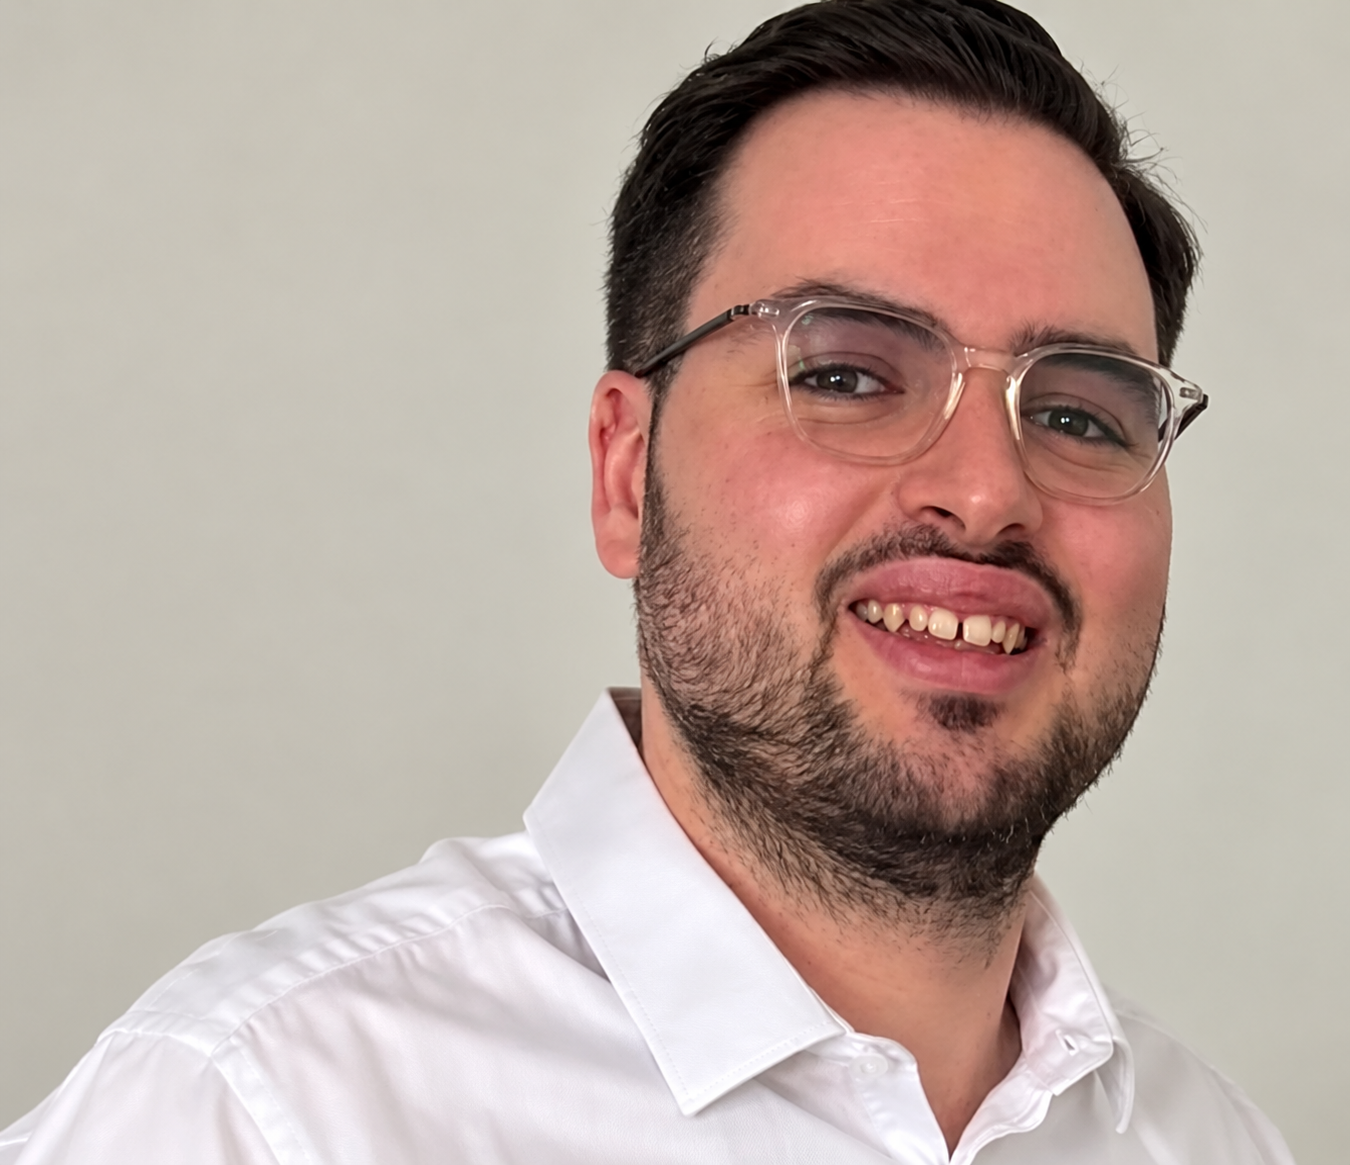
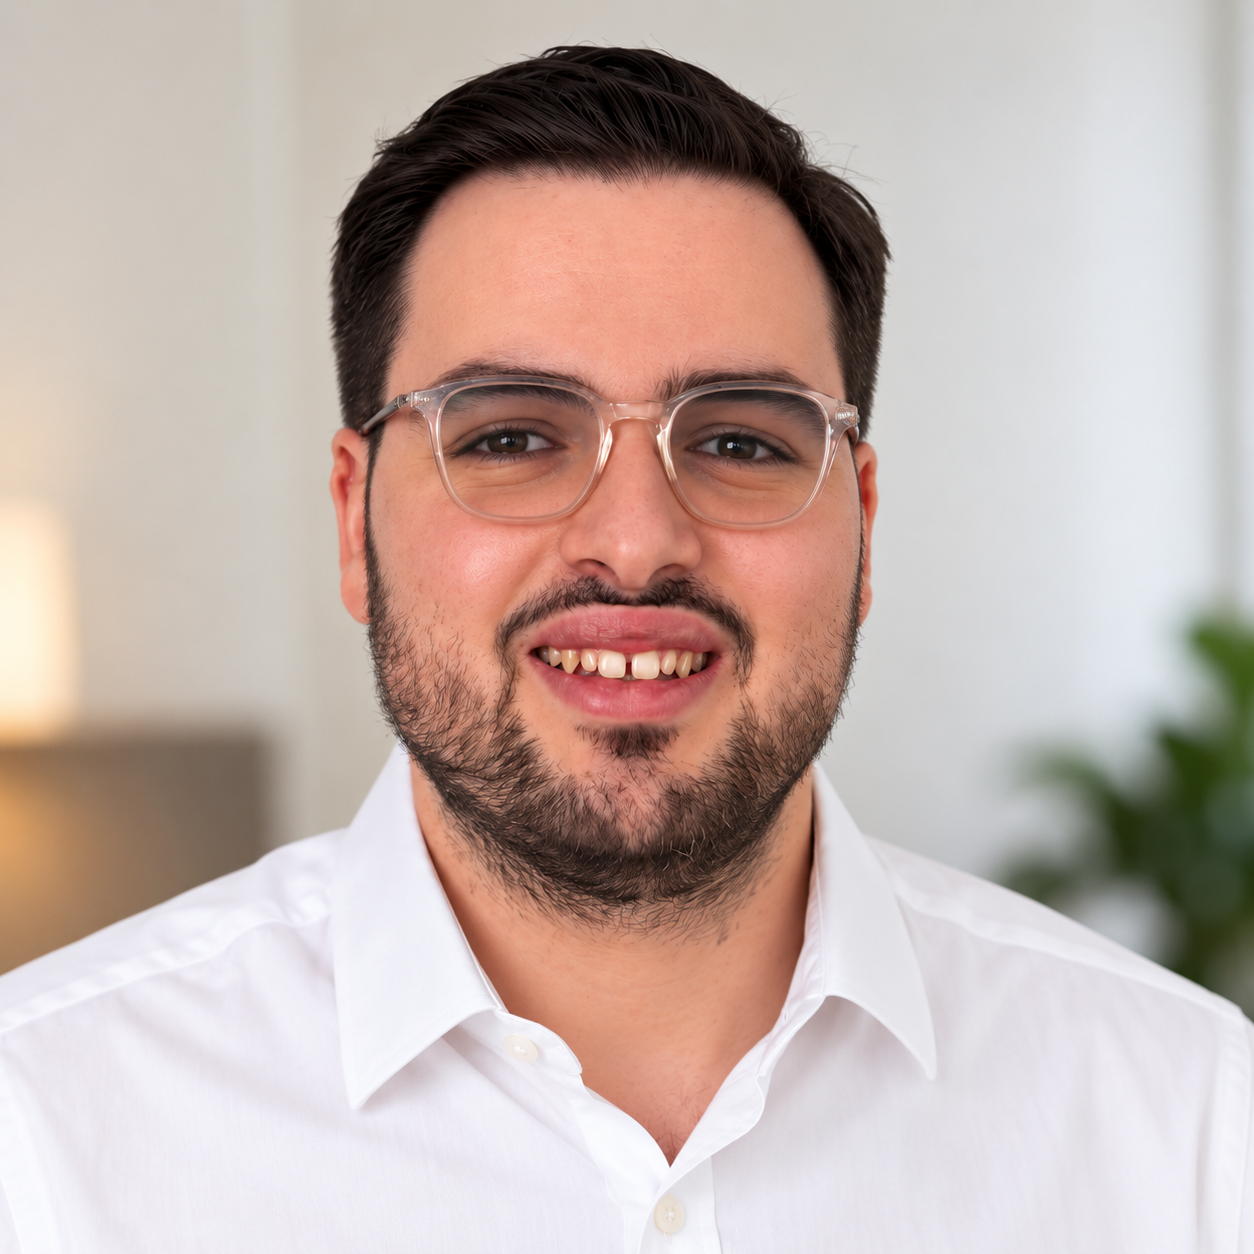
renfo SEO et ajout nouvelle photo et Calendy

diff --git a/index.html b/index.html
@@ -3,11 +3,62 @@
 <head>
   <meta charset="UTF-8">
   <meta content="width=device-width, initial-scale=1.0" name="viewport">
-  <title>Emmanuel Cohen-Sabban — Développeur Full Stack</title>
-  <meta content="Portfolio d'Emmanuel Cohen-Sabban, développeur Full Stack passionné par les architectures et les interfaces modernes, et l'automatisation CI/CD." name="description">
+  <title>Emmanuel Cohen-Sabban | Développeur Full Stack freelance</title>
+  <meta content="Emmanuel Cohen-Sabban, développeur Full Stack freelance : applications web, API et déploiement. Découvrez mes projets et réservez un échange de 30 minutes." name="description">
+  <meta name="robots" content="index, follow, max-image-preview:large">
+  <meta name="author" content="Emmanuel Cohen-Sabban">
+  <link rel="canonical" href="https://devecs.fr/">
+  <meta property="og:url" content="https://devecs.fr/">
+  <meta property="og:site_name" content="Emmanuel Cohen-Sabban">
+  <meta property="og:image" content="https://devecs.fr/assets/img/photo_cv.png">
+  <meta property="og:image:alt" content="Portrait d’Emmanuel Cohen-Sabban">
+  <meta property="og:type" content="website">
+  <meta property="og:locale" content="fr_FR">
+  <meta property="og:title" content="Emmanuel Cohen-Sabban — Développeur Full Stack freelance">
+  <meta property="og:description" content="Applications web, API et déploiement : découvrez mes projets et échangeons sur le vôtre.">
+  <meta name="twitter:card" content="summary">
   <link href="assets/img/logo_favicon.ico" rel="icon">
-  <link href="style.css?v=3" rel="stylesheet">
+  <link href="style.css?v=8" rel="stylesheet">
   <script defer src="script.js"></script>
+  <script type="application/ld+json">
+{
+  "@context": "https://schema.org",
+  "@type": "ProfilePage",
+  "@id": "https://devecs.fr/#profile",
+  "url": "https://devecs.fr/",
+  "name": "Emmanuel Cohen-Sabban — Développeur Full Stack freelance",
+  "inLanguage": "fr",
+  "mainEntity": {
+    "@type": "Person",
+    "@id": "https://devecs.fr/#emmanuel",
+    "name": "Emmanuel Cohen-Sabban",
+    "url": "https://devecs.fr/",
+    "image": "https://devecs.fr/assets/img/photo_cv.png",
+    "jobTitle": "Développeur Full Stack freelance",
+    "description": "Développeur Full Stack : conception d’applications web, développement front-end et back-end, API et déploiement.",
+    "knowsAbout": [
+      "Développement web",
+      "Angular",
+      "React",
+      "Next.js",
+      "Node.js",
+      "NestJS",
+      "Java",
+      "Spring Boot",
+      "PHP",
+      "Symfony",
+      "PostgreSQL",
+      "Docker",
+      "CI/CD"
+    ],
+    "sameAs": [
+      "https://www.linkedin.com/in/emmanuel-cohen-sabban-686a4417a",
+      "https://github.com/ManuHub26",
+      "https://www.malt.fr/profile/emmanuelcohensabban"
+    ]
+  }
+}
+  </script>
 </head>
 <body>
   <a class="skip-link" href="#main">Aller au contenu</a>
@@ -23,6 +74,7 @@
         <li><a class="nav-link"   href="#skills">Compétences</a></li>
         <li><a class="nav-link" href="#projects">Projets</a></li>
         <li><a class="nav-link"  href="#contact">Contact</a></li>
+        <li><a class="nav-link" href="https://calendly.com/emmanuel-cohen00/30min" target="_blank" rel="noopener noreferrer">Prise de RDV <span aria-hidden="true">↗</span></a></li>
       </ul>
       <button aria-controls="nav-links" aria-expanded="false" aria-label="Ouvrir le menu" class="hamburger" id="hamburger">
         <span></span><span></span><span></span>
@@ -35,7 +87,7 @@
     <div class="hero-content">
       <p class="eyebrow"><span class="status-dot"></span> Développeur Full Stack · Paris</p>
       <h1 id="hero-heading">Je donne vie<br>à vos projets<br><span class="accent">web.</span></h1>
-      <p class="hero-description">Moi, c’est Emmanuel, développeur Full Stack. Je conçois des applications simples à utiliser et fiables, de l’interface au serveur.</p>
+      <p class="hero-description">Moi, c’est Emmanuel Cohen-Sabban, développeur Full Stack freelance. Je conçois des applications simples à utiliser et fiables, de l’interface au serveur.</p>
       <div class="hero-ctas">
         <a class="btn btn-primary" href="#projects">Découvrir mes projets <span aria-hidden="true">↗</span></a>
         <a class="btn btn-outline" href="#contact">Discutons ensemble <span aria-hidden="true">→</span></a>
@@ -86,7 +138,7 @@
   <!-- ── Compétences ── -->
   <section class="section skills" id="skills">
     <div class="section-container">
-      <div class="section-heading reveal"><p class="eyebrow">02 / Compétences</p><h2 class="section-title">Une stack complète.<br>Des bases solides.</h2><p class="section-description">Les bons outils, à chaque étape du projet.</p></div>
+      <div class="section-heading reveal"><p class="eyebrow">02 / Compétences</p><h2 class="section-title">Une stack complète.<br>Des bases solides.</h2><p class="section-description">Développement front-end avec Angular, React et Next.js ; back-end avec Node.js, Java et PHP ; bases de données et déploiement.</p></div>
       <div class="skills-grid">
 
         <div class="skill-card reveal">
@@ -227,6 +279,16 @@
         Disponible pour toute opportunité, collaboration ou simple échange. Retrouvez-moi sur :
       </p>
       <div class="contact-grid">
+        <a class="contact-card contact-card-booking reveal" href="https://calendly.com/emmanuel-cohen00/30min" rel="noopener noreferrer" target="_blank">
+          <div class="contact-card-icon" aria-hidden="true">
+            <svg fill="none" height="32" stroke="currentColor" stroke-linecap="round" stroke-linejoin="round" stroke-width="1.5" viewBox="0 0 24 24" width="32"><rect x="3" y="5" width="18" height="16" rx="2"/><path d="M16 3v4M8 3v4M3 11h18M9 16l2 2 4-4"/></svg>
+          </div>
+          <div class="contact-card-body">
+            <span class="contact-card-label">Parlons de votre projet</span>
+            <span class="contact-card-value">Prendre rendez-vous · 30 minutes sur Calendly</span>
+          </div>
+          <svg aria-hidden="true" class="contact-card-arrow" fill="none" height="20" stroke="currentColor" stroke-width="2" viewBox="0 0 24 24" width="20"><path d="M7 17L17 7M17 7H7M17 7v10"/></svg>
+        </a>
 
         <a class="contact-card reveal" href="https://www.linkedin.com/in/emmanuel-cohen-sabban-686a4417a" rel="noopener noreferrer" target="_blank">
           <div class="contact-card-icon">
@@ -237,6 +299,17 @@
             <span class="contact-card-value">Échangeons sur LinkedIn</span>
           </div>
           <svg class="contact-card-arrow" fill="none" height="20" stroke="currentColor" stroke-width="2" viewBox="0 0 24 24" width="20"><path d="M7 17L17 7M17 7H7M17 7v10"/></svg>
+        </a>
+
+        <a class="contact-card reveal" href="https://www.malt.fr/profile/emmanuelcohensabban" rel="noopener noreferrer" target="_blank">
+          <div class="contact-card-icon" aria-hidden="true">
+            <svg fill="none" height="32" stroke="currentColor" stroke-linecap="round" stroke-linejoin="round" stroke-width="1.5" viewBox="0 0 24 24" width="32"><rect x="3" y="7" width="18" height="14" rx="2"/><path d="M8 7V5a2 2 0 0 1 2-2h4a2 2 0 0 1 2 2v2M3 12a20 20 0 0 0 18 0M12 12v3"/></svg>
+          </div>
+          <div class="contact-card-body">
+            <span class="contact-card-label">Malt</span>
+            <span class="contact-card-value">Retrouvez mon profil freelance</span>
+          </div>
+          <svg aria-hidden="true" class="contact-card-arrow" fill="none" height="20" stroke="currentColor" stroke-width="2" viewBox="0 0 24 24" width="20"><path d="M7 17L17 7M17 7H7M17 7v10"/></svg>
         </a>
 
         <a class="contact-card reveal" href="https://github.com/ManuHub26" rel="noopener noreferrer" target="_blank">
@@ -250,13 +323,15 @@
           <svg class="contact-card-arrow" fill="none" height="20" stroke="currentColor" stroke-width="2" viewBox="0 0 24 24" width="20"><path d="M7 17L17 7M17 7H7M17 7v10"/></svg>
         </a>
 
-        <a class="contact-card reveal" href="mailto:emmanuel.cohen00@gmail.com">
+
+
+        <a class="contact-card reveal" href="mailto:emmanuel.cohen-sabban@devecs.fr">
           <div class="contact-card-icon">
             <svg fill="none" height="32" stroke="currentColor" stroke-width="1.5" viewBox="0 0 24 24" width="32"><path d="M4 4h16c1.1 0 2 .9 2 2v12c0 1.1-.9 2-2 2H4c-1.1 0-2-.9-2-2V6c0-1.1.9-2 2-2z"/><polyline points="22,6 12,13 2,6"/></svg>
           </div>
           <div class="contact-card-body">
             <span class="contact-card-label">Email</span>
-            <span class="contact-card-value">emmanuel.cohen00@gmail.com</span>
+            <span class="contact-card-value">emmanuel.cohen-sabban@devecs.fr</span>
           </div>
           <svg class="contact-card-arrow" fill="none" height="20" stroke="currentColor" stroke-width="2" viewBox="0 0 24 24" width="20"><path d="M7 17L17 7M17 7H7M17 7v10"/></svg>
         </a>

diff --git a/style.css b/style.css
@@ -143,6 +143,7 @@ a:focus-visible,button:focus-visible {
 }
 
 .nav-link {
+  white-space:nowrap;
   font-size:13px;
   color:var(--muted);
   padding:12px 0;
@@ -173,6 +174,7 @@ a:focus-visible,button:focus-visible {
   height:2px;
   margin:5px 0;
   background:var(--ink);
+  transition:transform .25s ease, opacity .18s ease;
 }
 
 .hero {
@@ -295,8 +297,8 @@ a:focus-visible,button:focus-visible {
   width:100%;
   height:100%;
   object-fit:cover;
-  object-position:right center;
-  transform:scale(1.15) translate(-6%, 6%);
+  object-position:center;
+  transform:none;
 }
 
 .profile-name {
@@ -700,7 +702,7 @@ a:focus-visible,button:focus-visible {
 
 .contact-grid {
   display:grid;
-  grid-template-columns:repeat(3,minmax(0,1fr));
+  grid-template-columns:repeat(2,minmax(0,1fr));
   gap:16px;
 }
 
@@ -754,6 +756,40 @@ a:focus-visible,button:focus-visible {
   color:var(--accent);
 }
 
+
+/* Le rendez-vous est l’action principale de la section contact. */
+.contact-card-booking {
+  grid-column:1 / -1;
+  padding:28px;
+  background:var(--accent);
+  border-color:var(--accent);
+  color:white;
+  box-shadow:0 8px 24px #365fc425;
+}
+
+.contact-card-booking:hover {
+  background:#284b9f;
+}
+
+.contact-card-booking .contact-card-icon,
+.contact-card-booking .contact-card-arrow,
+.contact-card-booking .contact-card-value {
+  color:white;
+}
+
+.contact-card-booking .contact-card-label {
+  font-size:20px;
+}
+
+.contact-card-booking .contact-card-value {
+  font-size:13px;
+}
+
+.contact-card-booking .contact-card-icon svg {
+  width:28px;
+  height:28px;
+}
+
 .footer {
   border-top:1px solid var(--line);
   padding:28px 32px;
@@ -798,6 +834,12 @@ a:focus-visible,button:focus-visible {
 }
 
 @media(max-width:950px) {
+  .nav-links {
+    gap:18px;
+  }
+  .nav-caption {
+    display:none;
+  }
   .hero {
     grid-template-columns:1fr 235px;
     gap:35px;
@@ -847,7 +889,7 @@ a:focus-visible,button:focus-visible {
     display:block;
   }
   .nav-links {
-    display:none;
+    display:flex;
     position:absolute;
     top:73px;
     left:0;
@@ -858,9 +900,41 @@ a:focus-visible,button:focus-visible {
     flex-direction:column;
     align-items:stretch;
     gap:4px;
+    opacity:0;
+    visibility:hidden;
+    pointer-events:none;
+    transform:translateY(-10px);
+    box-shadow:0 14px 24px #24324a0a;
+    transition:opacity .22s ease, transform .25s ease, visibility 0s .25s;
   }
   .nav-links.open {
-    display:flex;
+    opacity:1;
+    visibility:visible;
+    pointer-events:auto;
+    transform:translateY(0);
+    transition-delay:0s;
+  }
+  .nav-links li {
+    opacity:0;
+    transform:translateY(-6px);
+    transition:opacity .18s ease, transform .22s ease;
+  }
+  .nav-links.open li {
+    opacity:1;
+    transform:translateY(0);
+    transition-delay:calc(var(--menu-order, 0) * 35ms + 40ms);
+  }
+  .nav-links li:nth-child(2) {
+    --menu-order:1;
+  }
+  .nav-links li:nth-child(3) {
+    --menu-order:2;
+  }
+  .nav-links li:nth-child(4) {
+    --menu-order:3;
+  }
+  .nav-links li:nth-child(5) {
+    --menu-order:4;
   }
   .nav-link {
     display:block;
